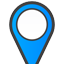
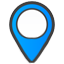
Fixes the marker composite image as well as uses a react  money field component  for hourly rate in new job form

diff --git a/client/src/components/jobs/newjob-form.jsx b/client/src/components/jobs/newjob-form.jsx
@@ -1,6 +1,7 @@
 import React, { Component } from 'react'
 import _jobService from '../../network/jobs'
 import Notifications, {notify} from 'react-notify-toast'
+import CurrencyMaskedInput from 'react-currency-masked-input'
 
 class NewJobForm extends Component {
 
@@ -10,6 +11,7 @@ class NewJobForm extends Component {
   }
 
   handleSubmit (event) {
+    debugger
     var $ = window.$
     event.preventDefault()
     console.log('job submitted')
@@ -17,7 +19,7 @@ class NewJobForm extends Component {
       this.refs.title.value,
       this.refs.description.value,
       this.refs.address.value,
-      this.refs.rate.value
+      Math.floor(Number(this.refs.rate.value) * 100)
     ).then((res) => {
       if (res.status === 'success') {
         $('#newJobModal').modal('hide')
@@ -37,7 +39,8 @@ class NewJobForm extends Component {
           <label><input ref='title' placeholder='Title' /></label><br />
           <label><input ref='address' placeholder='Valid Address' /></label><br />
           <label><textarea rows='8' ref='description' placeholder='Description' /></label><br />
-          <label><input ref='rate' placeholder='Hourly Rate' /></label><br />
+          Hourly Rate<br />
+          <label><CurrencyMaskedInput ref='rate' placeholder='0' required /></label><br />
           <button className='btn btn-primary' type='submit'>Submit Job</button>
         </form>
       </div>
